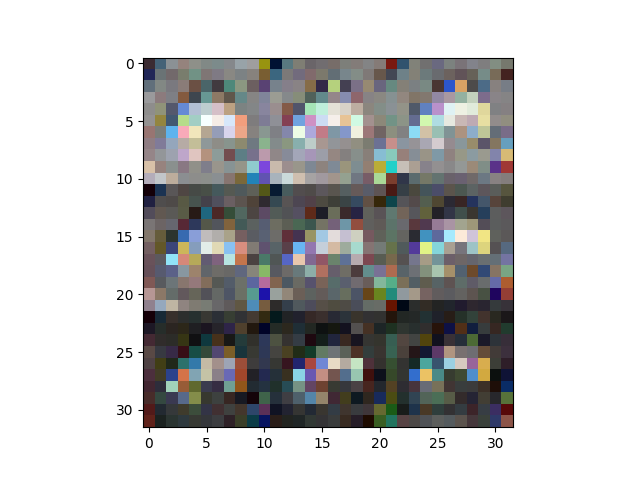
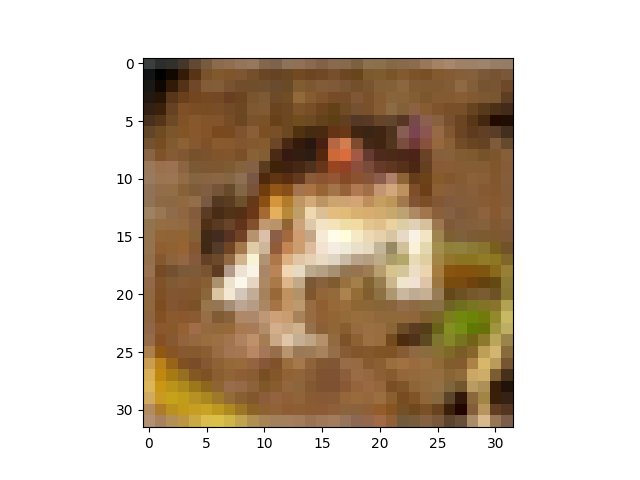
images reshaped properly

diff --git a/assign4/darse.py b/assign4/darse.py
@@ -32,11 +32,7 @@ class Parser(object):
             for k, v in self.dataset.items(): 
                 print("[" + k + "]: " + "START")
                 batch_dict = self.__unpickle(self.dataset[k])
-                self.images_set.append(np.apply_along_axis(np.reshape, 1, batch_dict[b'data'], [3, 32, 32]))
-                plt.imshow(self.images_set[0][0])
-                plt.savefig('img_00.png')
-                print(self.images_set[0][0].shape)
-                exit(1)
+                self.images_set.append(np.transpose(batch_dict[b'data'].reshape(10000, 3, 32, 32), (0, 2, 3, 1)))
                 self.labels_set.append(batch_dict[b'labels'])
 
                 print("[" + k + "]: " + "COMPLETE")
